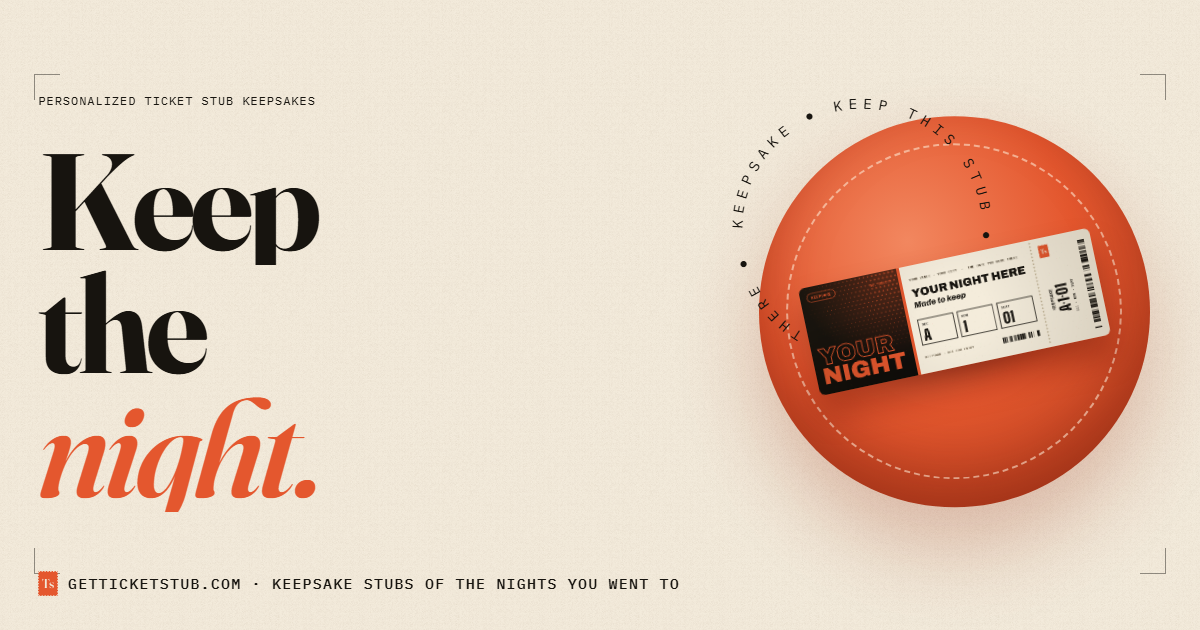
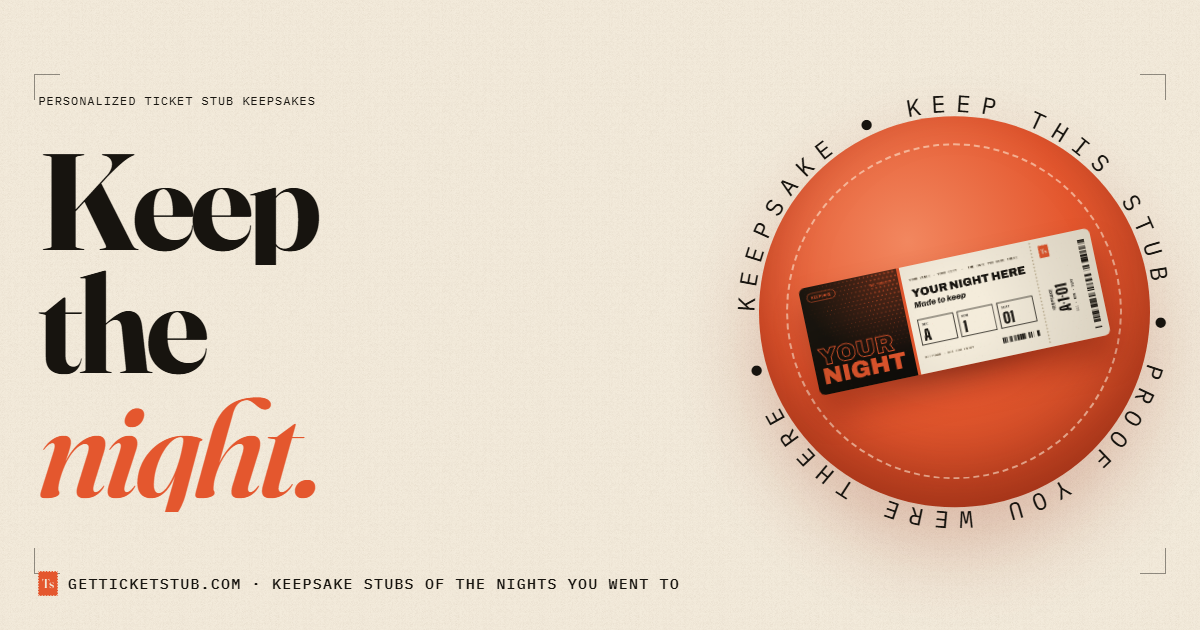
Fix the landing's lost animations and the off-centre hero ring
The port prefixed the keyframes (lp-spin, lp-mq, ...) but not the rules using them,
so the ring, marquee, caret, CTA entrance/flap/gleam and print sweep never ran. The
rules now use the lp- names. With motion off the hero shows before its mono font
loads, and Chrome keeps the ring's textPath at that first layout (small, off-centre),
so the ring is laid out again once fonts load. The share image is recaptured.

diff --git a/src/customer/landing/landing.css b/src/customer/landing/landing.css
@@ -204,7 +204,7 @@
 :where(.lp-host) .maker button{position:relative;overflow:hidden;isolation:isolate;transition:transform 160ms var(--ease-std),background-color 160ms var(--ease-std)}
 :where(.lp-host) .maker button .lbl{display:inline-flex;align-items:center;gap:12px}
 :where(.lp-host) .maker button:after{content:"";position:absolute;inset:0;z-index:-1;background:linear-gradient(105deg,transparent 30%,rgba(255,255,255,.55) 46%,rgba(124,198,210,.5) 54%,transparent 70%) 0 0/250% 100%;background-position:130% 0;opacity:0}
-:where(.lp-host) .maker button.gleam:after{animation:gleam 1.1s var(--ease-enter) .2s 1 both}
+:where(.lp-host) .maker button.gleam:after{animation:lp-gleam 1.1s var(--ease-enter) .2s 1 both}
 @keyframes lp-gleam{0%{opacity:1;background-position:130% 0}100%{opacity:1;background-position:-40% 0}}
 :where(.lp-host) .hero h1.m-split .l>span{transform:none;transition:none}
 :where(.lp-host) .hero h1.m-split .l{overflow:visible}
@@ -239,7 +239,7 @@
   transition:transform 1.3s cubic-bezier(.2,1.2,.3,1) .2s,opacity .6s .2s}
 :where(.lp).ready :where(.lp-host) .disc{transform:translateY(-46%);opacity:1}
 :where(.lp-host) .disc:before{content:"";position:absolute;inset:7%;border-radius:50%;border:2px dashed rgba(255,240,220,.55)}
-:where(.lp-host) .disc svg{position:absolute;inset:-9%;width:118%;height:118%;animation:spin 26s linear infinite}
+:where(.lp-host) .disc svg{position:absolute;inset:-9%;width:118%;height:118%;animation:lp-spin 26s linear infinite}
 :where(.lp-host) .disc text{font-family:var(--mono);font-size:6.2px;letter-spacing:.42em;fill:var(--ink)}
 :where(.lp-host) .disc .contact{position:absolute;left:18%;right:14%;top:52%;height:16%;border-radius:50%;background:radial-gradient(closest-side,rgba(70,8,0,.45),transparent);filter:blur(6px);transform:rotate(-10deg)}
 :where(.lp-host) .stub2d{display:none}
@@ -260,7 +260,7 @@
 
 /* ---------- marquee ---------- */
 :where(.lp-host) .marquee{background:var(--ink);color:var(--stock);overflow:hidden;transform:rotate(-2deg) scale(1.04);margin:-34px 0 -10px;position:relative;z-index:3;border-block:2px solid var(--foil)}
-:where(.lp-host) .marquee .track{display:flex;width:max-content;animation:mq 34s linear infinite}
+:where(.lp-host) .marquee .track{display:flex;width:max-content;animation:lp-mq 34s linear infinite}
 :where(.lp-host) .marquee span{font-family:var(--display);font-weight:900;font-stretch:125%;font-size:clamp(26px,3.6vw,52px);text-transform:uppercase;padding:14px 0;white-space:nowrap;display:flex;align-items:center}
 :where(.lp-host) .marquee span:after{content:"";width:.45em;height:.45em;border-radius:50%;background:var(--foil);margin:0 .7em;display:inline-block}
 :where(.lp-host) .marquee span:nth-child(even){color:transparent;-webkit-text-stroke:1.5px var(--stock)}
@@ -376,7 +376,7 @@
 :where(.lp-host) .step p{margin:0;max-width:34ch;font-size:17px}
 :where(.lp-host) .viz{height:150px;position:relative;margin-bottom:6px}
 :where(.lp-host) .search{position:absolute;left:0;right:8%;top:28px;background:var(--stock);border:2px solid var(--ink);border-radius:999px;padding:14px 20px;font-family:var(--mono);font-size:14px;display:flex;gap:10px;align-items:center;box-shadow:6px 6px 0 var(--ink)}
-:where(.lp-host) .search .caret{width:2px;height:18px;background:var(--ink);animation:blink 1s steps(1) infinite}
+:where(.lp-host) .search .caret{width:2px;height:18px;background:var(--ink);animation:lp-blink 1s steps(1) infinite}
 :where(.lp-host) .search+.mono{position:absolute;left:20px;top:100px;opacity:.7}
 @keyframes lp-blink{50%{opacity:0}}
 :where(.lp-host) .styles canvas{position:absolute;width:62%;border-radius:4px;box-shadow:0 10px 18px rgba(60,30,0,.25)}
@@ -442,13 +442,13 @@
 :where(.lp-host) .fin-card{position:relative;padding:20px 10px}
 :where(.lp-host) .fin-card .ts-stub{--w:clamp(210px,17vw,270px);--rot:5deg;transform:rotate(var(--rot)) scale(var(--fsc,.86));opacity:var(--fo,0);transition:transform .9s cubic-bezier(.2,1.3,.3,1) .15s,opacity .5s .15s}
 :where(.lp-host) .finale.on .fin-card .ts-stub{--fsc:1;--fo:1}
-:where(.lp-host) .fin-card .ts-stub.inked .ts-face{animation:ink .45s ease-out}
+:where(.lp-host) .fin-card .ts-stub.inked .ts-face{animation:lp-ink .45s ease-out}
 :where(.lp-host) .ts-stub .ts-sweep{position:absolute;inset:0;z-index:6;pointer-events:none;opacity:0;border-radius:3.2cqw;background:linear-gradient(100deg,transparent 30%,rgba(180,105,62,.0) 34%,rgba(228,87,46,.35) 44%,rgba(244,236,221,.7) 50%,rgba(124,198,210,.45) 56%,transparent 66%) 0 0/300% 100%;mix-blend-mode:screen}
-:where(.lp-host) .ts-stub.printing .ts-sweep{opacity:1;animation:sweep var(--dur-sweep) linear infinite}
+:where(.lp-host) .ts-stub.printing .ts-sweep{opacity:1;animation:lp-sweep var(--dur-sweep) linear infinite}
 @keyframes lp-sweep{from{background-position:120% 0}to{background-position:-120% 0}}
 :where(.lp-host) .fin-status{display:inline-flex;align-items:center;gap:8px;font:500 11px/1 var(--mono);letter-spacing:.12em;text-transform:uppercase;color:var(--foil);min-height:14px}
 :where(.lp-host) .fin-status i{width:7px;height:7px;border-radius:50%;background:currentColor;opacity:0}
-:where(.lp-host) .fin-status.on i{opacity:1;animation:blink 1s steps(1) infinite}
+:where(.lp-host) .fin-status.on i{opacity:1;animation:lp-blink 1s steps(1) infinite}
 @keyframes lp-ink{0%{filter:brightness(1.25) saturate(.6)}100%{filter:none}}
 :where(.lp-host) .finale h2{margin:0;font-family:var(--display);font-weight:900;font-stretch:125%;font-size:clamp(60px,9.4vw,172px);line-height:.82;letter-spacing:-.045em;text-transform:uppercase;color:var(--stock);transform-origin:left center;
   transform:scale(var(--fs,1.2)) rotate(-3deg);transition:transform .9s cubic-bezier(.2,1.4,.3,1)}
@@ -636,7 +636,7 @@
 :where(.lp-host) .cta-end{align-self:stretch;display:grid;place-items:center;width:var(--endw,40px);margin-left:4px;border-left:2px dotted color-mix(in srgb,var(--cta-ink) 45%,transparent);transform-origin:left center}
 :where(.lp-host) .cta-end i{font-style:normal;font-size:1.25em;line-height:1;transition:transform 200ms cubic-bezier(.23,1,.32,1)}
 /* the tear-off end flaps every few seconds */
-:where(.lp-host) .cta-end{animation:ctaFlap 5.6s cubic-bezier(.45,0,.55,1) 2.4s infinite}
+:where(.lp-host) .cta-end{animation:lp-ctaFlap 5.6s cubic-bezier(.45,0,.55,1) 2.4s infinite}
 @keyframes lp-ctaFlap{0%,70%{rotate:0deg}75%{rotate:9deg}81%{rotate:-3deg}87%,100%{rotate:0deg}}
 /* bigger stub for the hero and footer */
 :where(.lp-host) .cta-lg .cta-body{--endw:52px;padding:17px 0 16px 20px;font-size:15px;gap:12px}
@@ -644,7 +644,7 @@
 :where(.lp-host) .cta-lg{border-radius:10px}:where(.lp-host) .cta-lg .cta-body{border-radius:10px}
 :where(.lp-host) .cta-foot{margin:0 0 50px}
 /* the stub punches in once the page is ready (starts near full size, short spring) */
-:where(.lp).ready :where(.lp-host) .cta-in{animation:ctaIn 640ms var(--spring) 1.15s both}
+:where(.lp).ready :where(.lp-host) .cta-in{animation:lp-ctaIn 640ms var(--spring) 1.15s both}
 :where(.lp).ready :where(.lp-host) .cta-in.cta-late{animation-delay:1.5s}
 @keyframes lp-ctaIn{from{opacity:0;scale:.9;rotate:-6deg}to{opacity:1;scale:1;rotate:0deg}}
 /* hover (mouse only): lift and tilt, the arrow leans out, the end starts to tear */
@@ -697,3 +697,4 @@
 /* "Studio preview — nothing is charged or shipped." under the form */
 :where(.lp-host) .fin-preview{display:block;margin-top:-6px;font:500 11px/1.4 var(--mono);letter-spacing:.06em;text-transform:uppercase;color:var(--foil)}
 @media (max-width:760px){:where(.lp-host) .fin-preview{font-size:10px;margin-top:-2px}}
+

diff --git a/src/customer/landing/landing.script.ts b/src/customer/landing/landing.script.ts
@@ -394,7 +394,15 @@ export function mountLanding(ctx) {
     function dismissLoader(){ if (loaderEl.classList.contains('done')) return; loaderEl.classList.add('done'); lpRoot.classList.add('ready'); setTimeout(() => { loaderEl.hidden = true; }, 1200); }
     // no motion: the loader never shows (it would only slide away); the printed version is ready as soon as the page is
     if (STILL){ loaderEl.classList.add('done'); loaderEl.hidden = true; lpRoot.classList.add('ready'); }
-    const safety = setTimeout(() => { lpRoot.classList.add('no3d'); dismissLoader(); }, 8000);   // last resort if fonts or art stall
+    const safety = setTimeout(() => { lpRoot.classList.add('no3d'); dismissLoader(); }, 8000);
+    // Chrome keeps the ring's curved text (textPath) at its first layout: shown before its font loads (no loader with motion
+    // off), it stays small and off-centre. Lay it out again whenever fonts finish loading.
+    const relayoutRing = () => { if (disposed) return; qsa('.disc text').forEach(t => { t.style.display = 'none'; requestAnimationFrame(() => { t.style.display = ''; }); }); };
+    if (document.fonts){
+      document.fonts.ready.then(relayoutRing);
+      document.fonts.addEventListener('loadingdone', relayoutRing);
+      disposers.push(() => document.fonts.removeEventListener('loadingdone', relayoutRing));
+    }   // last resort if fonts or art stall
 
     /* =============================== DATA =============================== */
     // scene order matches the Blender flights S0..S7 (even = performer on the left, throws right)
